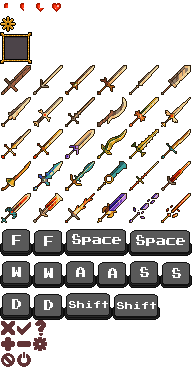
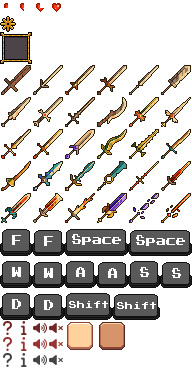
Updating hud

Changed region(s): [[0.0, 0.8668, 0.6562, 1.0]]

diff --git a/mygame/src/objects/hud.js b/mygame/src/objects/hud.js
@@ -29,6 +29,37 @@ export const hud = ()=>({
 			if(this.messageQueue.length) this.messageQueue.shift();
 			if(!this.messageQueue.length) DM.paused = false;
 		});
+
+		//add interactive buttons to panel on the right side. 
+		this.controlPanel = this.hud.add([
+			sprite('panel', {width: 32, height: 32}),
+			anchor('botright'),
+			pos(width(), height()),
+			fixed()
+		]);
+
+		const infoBtn = this.controlPanel.add([
+			sprite('button', {frame: 0, width: 12, height: 12}),
+			pos(-5, -26),
+			anchor('topright')
+		]);
+
+		infoBtn.add([
+			sprite('info', {frame: 0, width: 8, height: 8}),
+			pos(-6, 5),
+			anchor('center')
+		]);
+
+		const helpBtn = this.controlPanel.add([
+			sprite('button', {frame: 0, width: 12, height: 12}),
+			pos(-15, -26),
+			anchor('topright')
+		]);
+		const soundBtn = this.controlPanel.add([
+			sprite('button', {frame: 0, width: 12, height: 12}),
+			pos(-5, -16),
+			anchor('topright')
+		]);
 	},
 
 	drawDungeonName(){
@@ -48,6 +79,7 @@ export const hud = ()=>({
 			fixed: true
 		})
 	},
+
 	drawWeapon(){
 		
 		if(this.damageAmount-1 < 0) return;

diff --git a/mygame/src/loaders/loadHud.js b/mygame/src/loaders/loadHud.js
@@ -27,9 +27,33 @@ export const loadHUD = () => loadSpriteAtlas("assests/hud-ui.png", {
 		sliceY: 5
 	},
 	help: {
-		x: 32,
-		y: 220,
+		x: 0,
+		y: 320,
 		width: 16,
-		height: 16
+		height: 48,
+		sliceY: 3
+	},
+	info: {
+		x: 16,
+		y: 320,
+		sliceY: 3,
+		width: 16,
+		height: 48
+	},
+	sound: {
+		x: 32,
+		y: 320,
+		sliceX: 2,
+		sliceY: 3,
+		width: 32,
+		height: 48
+	},
+	button: {
+		x:64,
+		y: 320,
+		sliceX: 2,
+		width: 64,
+		height: 32
 	}
+
 });

diff --git a/mygame/src/levels/level1.js b/mygame/src/levels/level1.js
@@ -1,4 +1,4 @@
-import { interact } from "../objects";
+import { hazard, interact } from "../objects";
 
 const level1 = {
 	title:"Dungeon - 0",
@@ -43,6 +43,9 @@ A faint voice can be heard
 	},
 	tiles: {
 			l:()=>[
+				state('idle', ['idle', 'attack']),
+				area(),
+				hazard(1, 10, 2),
 				interact(player=>player.dialog("This hasn't been\nlit in years"))
 			],
 			"(":()=>[
